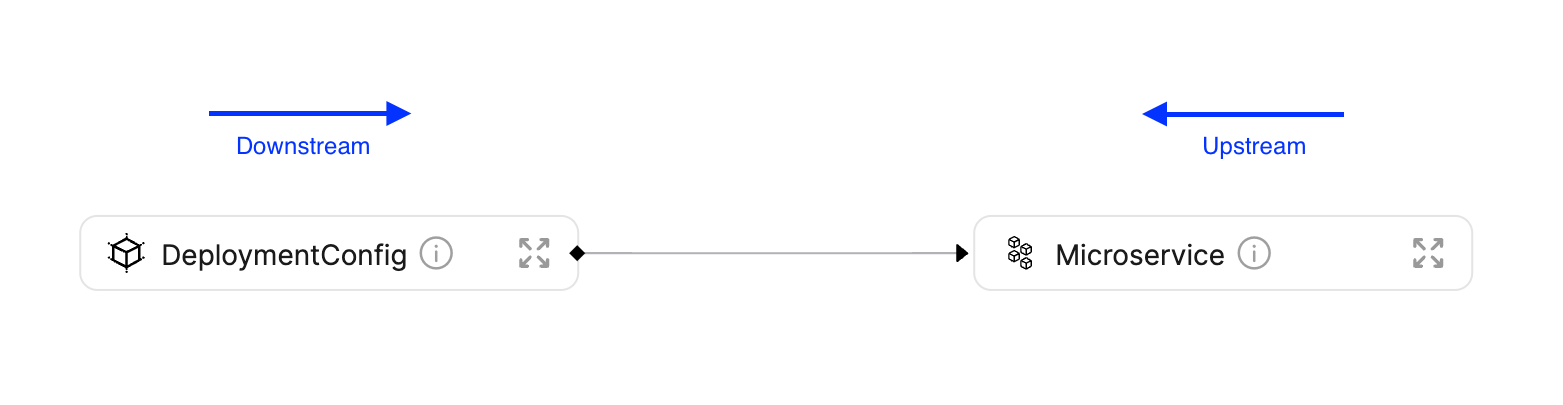
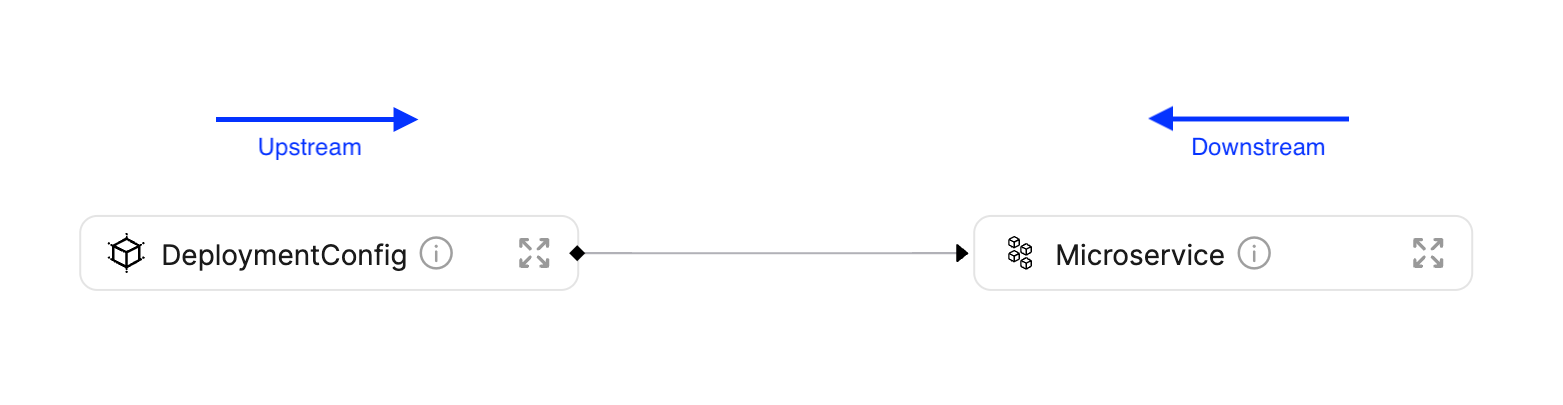
Update upstream and downstream terminology

Changed region(s): [[0.7063, 0.237, 0.8599, 0.3852], [0.1228, 0.2667, 0.2764, 0.3852]]

diff --git a/docs/tutorials/search-in-port.md b/docs/tutorials/search-in-port.md
@@ -250,16 +250,18 @@ By looking at the resulting graph layout, we can also map the directions:
 
 ![Dependency graph upstream downstream diagram](../../static/img/tutorial/search-in-port/upstream-downstream-diagram.png)
 
-- To search for Entities which depend on the source - use `"direction": "upstream"`
-  - In the diagram above, `DeploymentConfig` is **upstream** from `Microservice`, because `DeploymentConfig` Entities depend on `Microservice` Entities
-- To search for Entities which the source depends on - `"direction": "downstream"`
-  - In the diagram above, `Microservice` is **downstream** from `DeploymentCOnfig`, because `DeploymentConfig` Entities depend on `Microservice` Entities
+- To search for Entities which the source depends on - `"direction": "upstream"`;
+  - In the diagram above, `Microservice` is **upstream** from `DeploymentConfig`, because `DeploymentConfig` Entities depend on `Microservice` Entities.
+- To search for Entities which depend on the source - use `"direction": "downstream"`;
+  - In the diagram above, `DeploymentConfig` is **downstream** from `Microservice`, because `DeploymentConfig` Entities depend on `Microservice` Entities.
+
+So if we want to search for the original _Port-API_ `Microservice` that the _port-api-production_ `DeploymentConfig` depends on, the search rule would be:
 
 ```json showLineNumbers
 {
   "operator": "relatedTo",
-  "blueprint": "microservice",
-  "value": "port-api",
+  "blueprint": "DeploymentConfig",
+  "value": "port-api-production",
   "direction": "upstream"
 }
 ```
